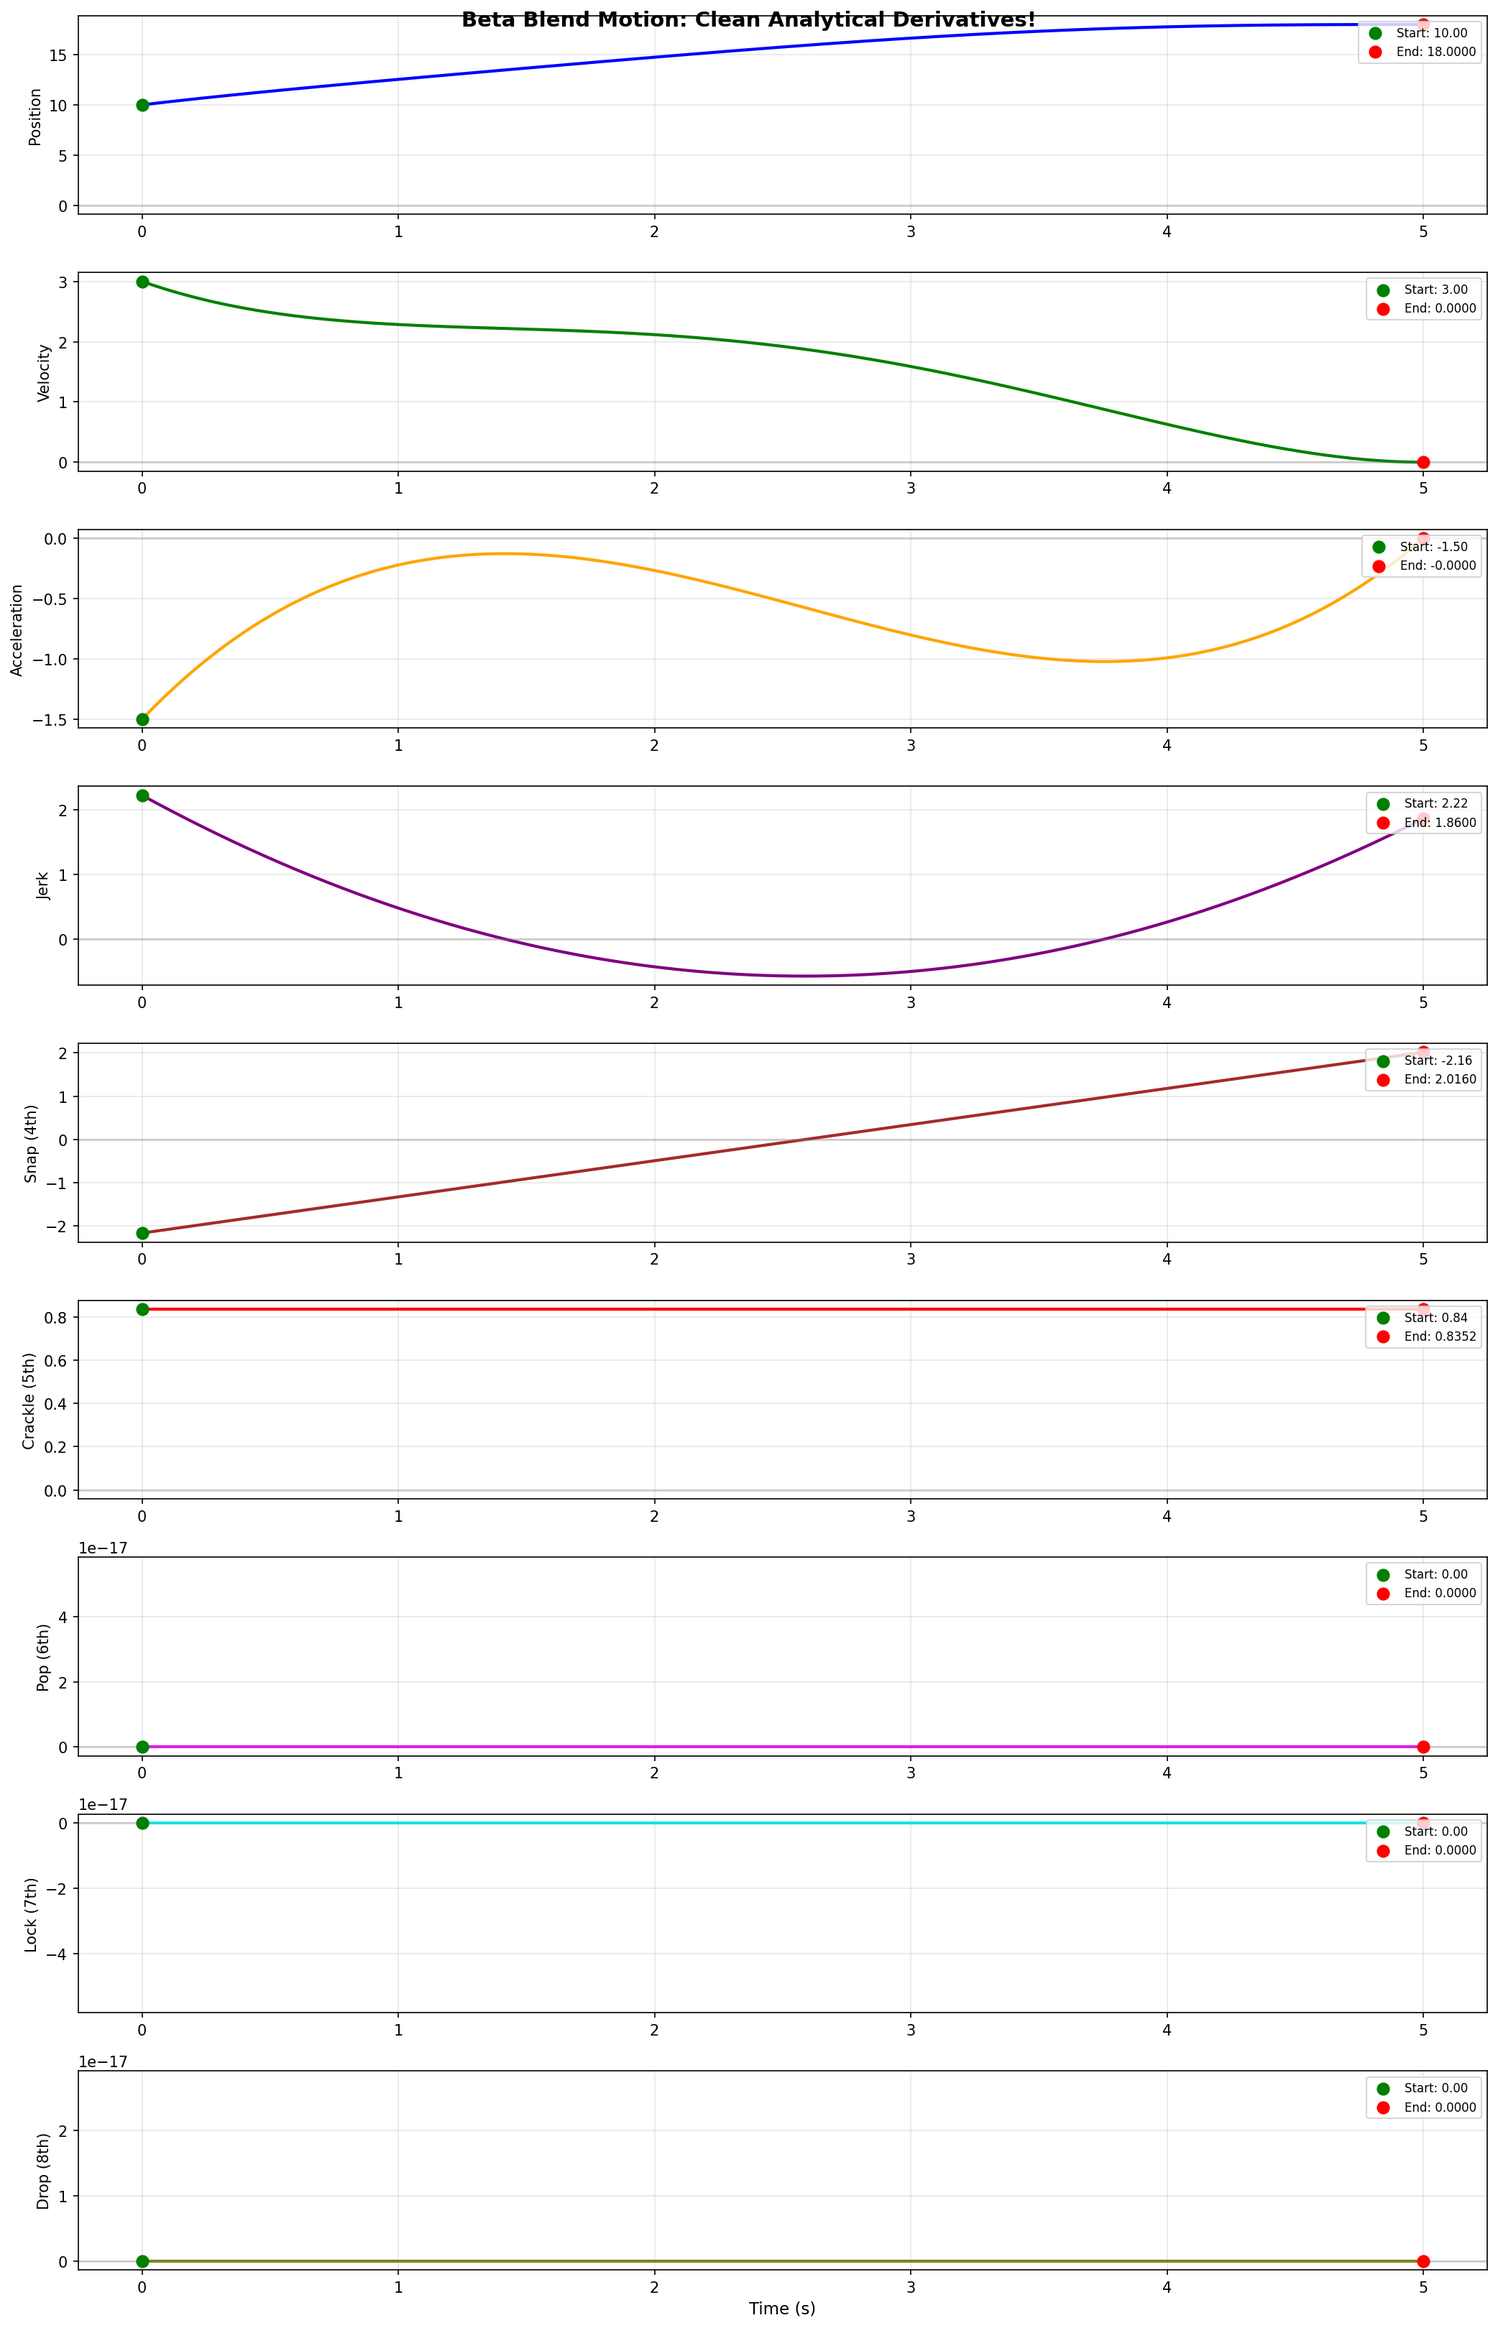
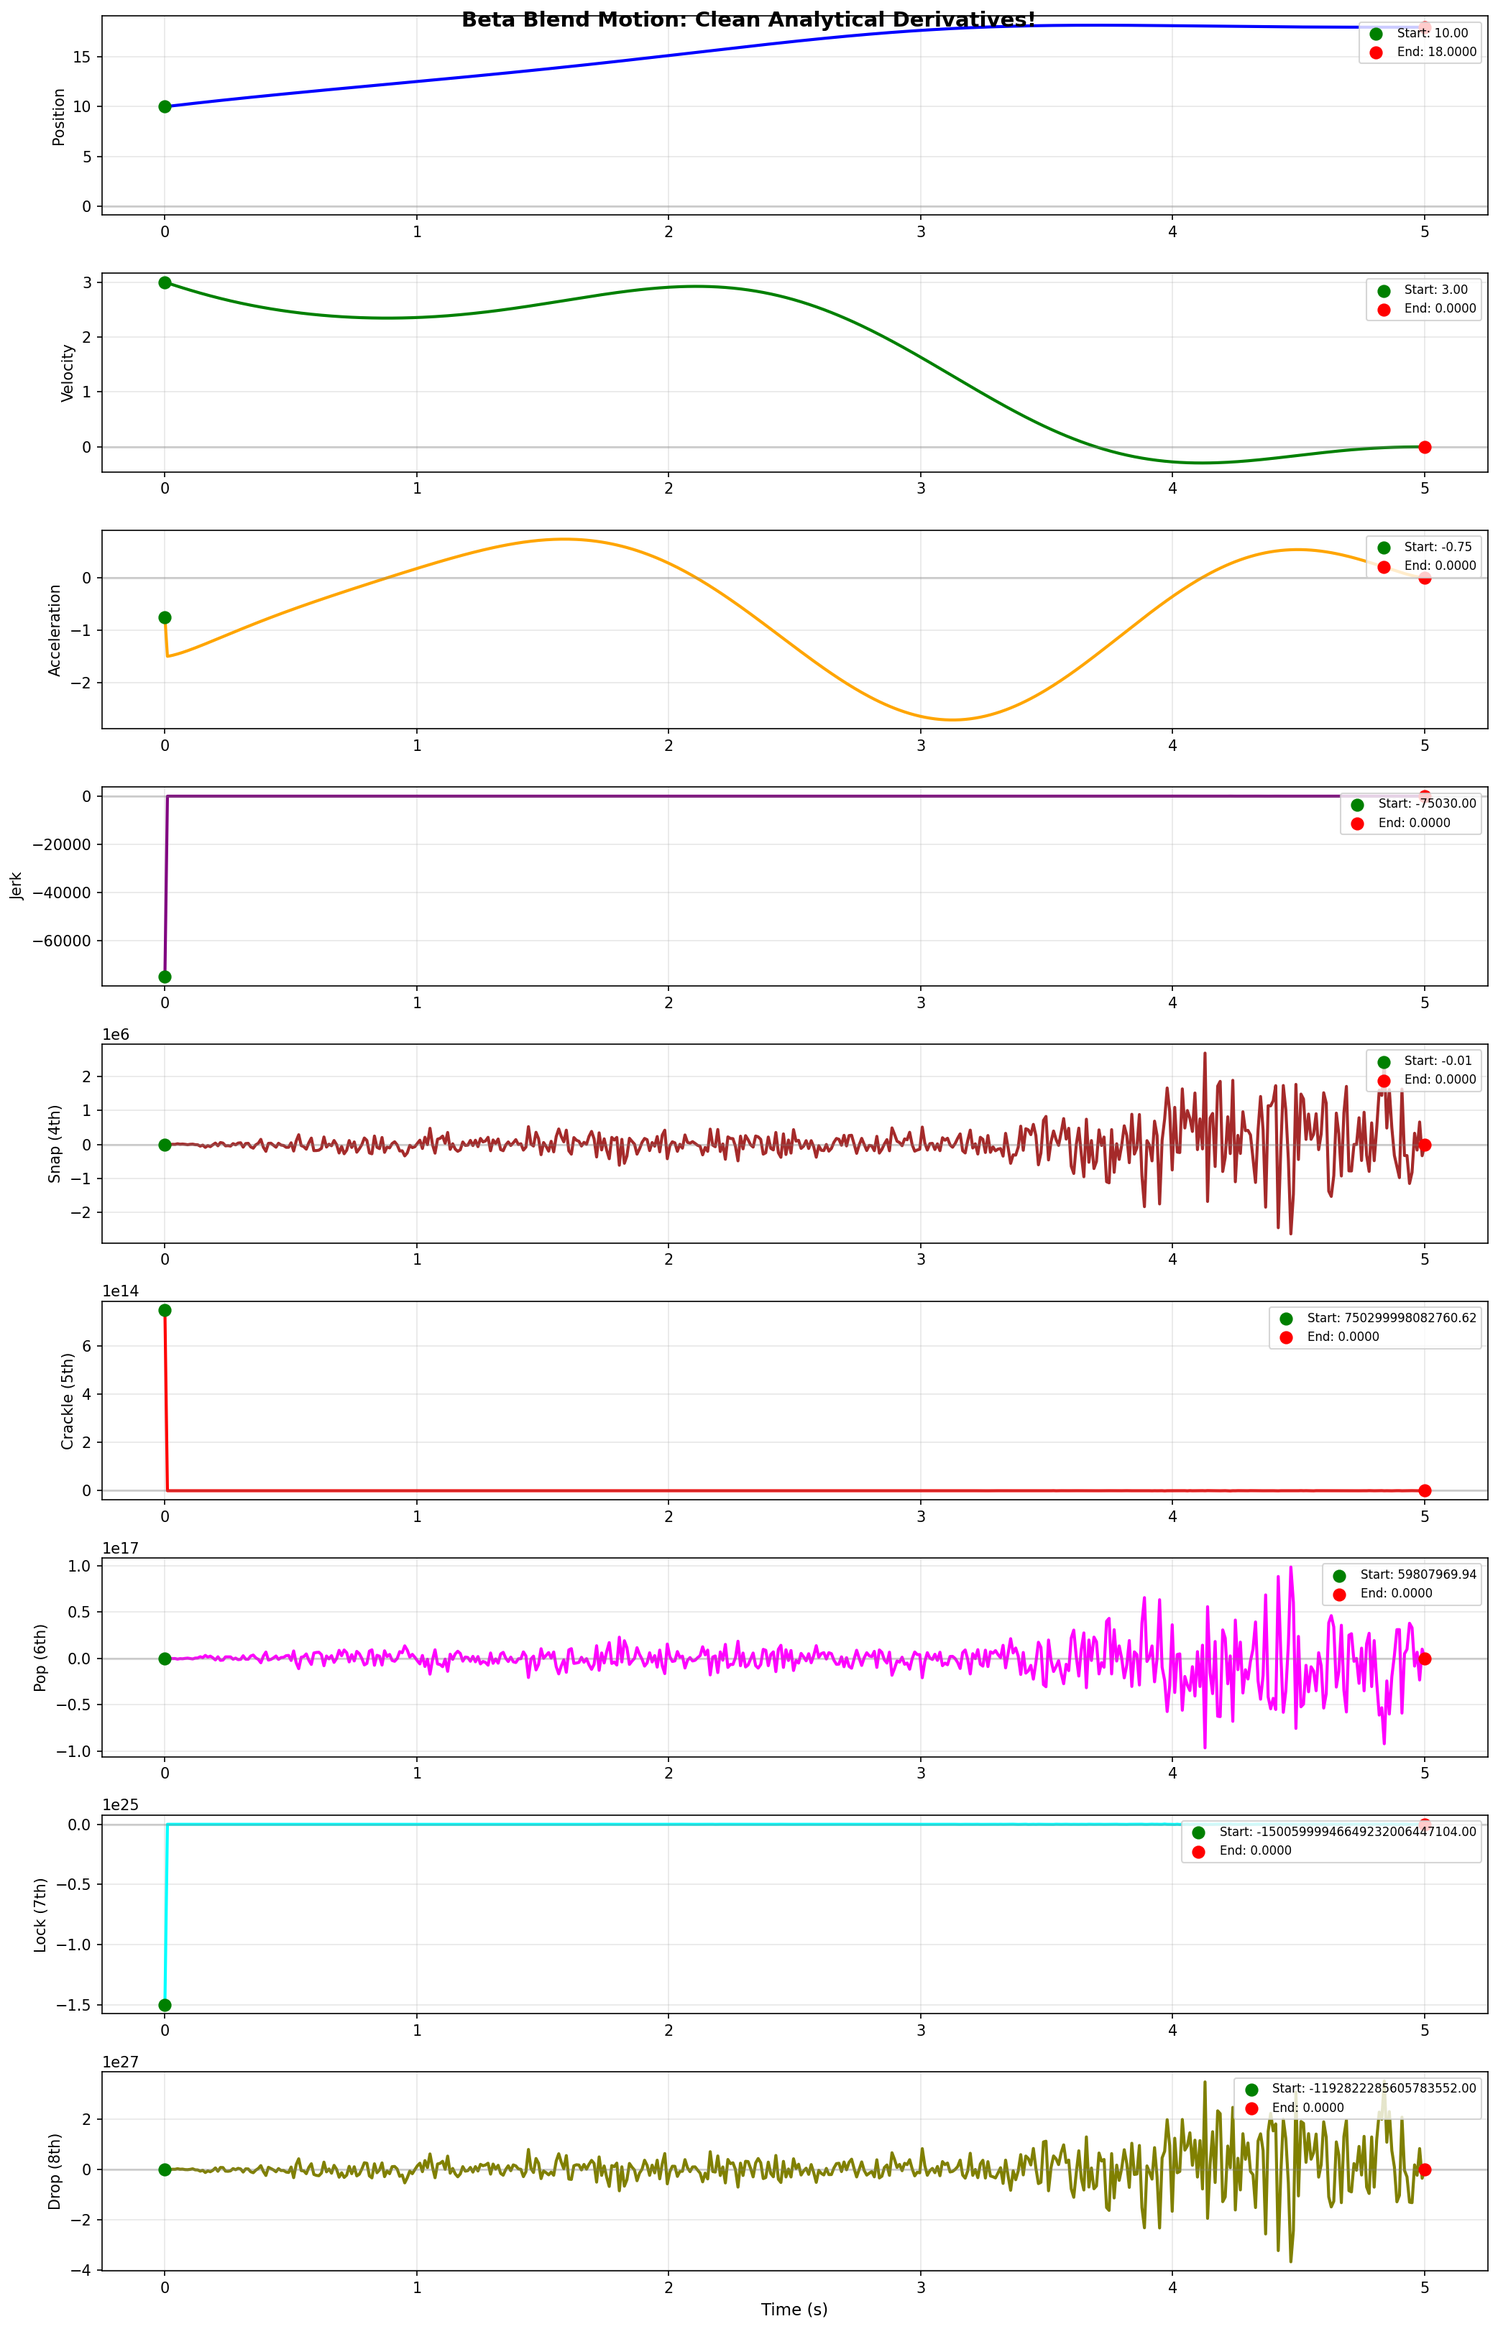
Rewrite BetaBlendMotion with τ-normalized S-curve blending
Key changes:
- Use τ-normalized formulation: x = x0 + Δx*β(τ) + v0*T*φ₁(τ) + a0*T²*φ₂(τ)
- φₙ(τ) = τⁿ*(1-β)ⁿ basis functions for derivative matching
- Reduce T_max from 60s to 15s to prevent trajectory blowup
- Add _phi_deriv helper for computing basis function derivatives

The new approach keeps trajectories bounded by using normalized time τ∈[0,1]
instead of raw time t which causes T^n explosion for large durations.

diff --git a/src/scurvebeta/generalized.py b/src/scurvebeta/generalized.py
@@ -1103,29 +1103,66 @@ def normalized_f_derivatives(tau, max_order=8):
     return results
 
 
+def _beta_s(s):
+    """
+    Beta S-curve mapped to s ∈ [0,1] → [0,1].
+
+    β(s) = f(2s - 1) where f is the normalized S-curve.
+    Has the critical property: β(0)=0, β(1)=1, and ALL derivatives = 0 at both ends.
+    """
+    s = np.asarray(s, dtype=float)
+    tau = 2 * s - 1
+    return normalized_f(tau)
+
+
+def _beta_s_derivatives(s, max_order=8):
+    """
+    Compute β(s) and all its derivatives up to max_order.
+
+    β(s) = f(2s-1), so β^(k)(s) = 2^k * f^(k)(2s-1)
+
+    Returns list [β, β', β'', ...] of length max_order+1
+    """
+    s = np.asarray(s, dtype=float)
+    scalar = s.ndim == 0
+    s = np.atleast_1d(s)
+
+    tau = 2 * s - 1
+    f_derivs = normalized_f_derivatives(tau, max_order)
+
+    beta_derivs = []
+    for k, f_k in enumerate(f_derivs):
+        beta_derivs.append(np.asarray(f_k) * (2 ** k))
+
+    if scalar:
+        return [float(bd[0]) if hasattr(bd, '__len__') else float(bd) for bd in beta_derivs]
+    return beta_derivs
+
+
 class BetaBlendMotion:
     """
-    Motion using beta S-curve as a blend function with quintic base trajectory.
+    Motion using S-curve to smoothly blend inertial trajectory to rest at target.
 
-    Instead of a simple inertial trajectory that can diverge, we use a quintic
-    polynomial that smoothly connects initial state to final state:
+    The motion is constructed as:
 
-    Base trajectory Q(s) for s ∈ [0,1] satisfies:
-    - Q(0) = x0, Q'(0) = v0*T, Q''(0) = a0*T²
-    - Q(1) = xT, Q'(1) = 0, Q''(1) = 0
+    x(t) = x0 + (x_inertial(t) - x0) * (1 - β(τ)) + (x_target - x0) * β(τ)
 
-    Then apply S-curve time rescaling: x(t) = Q(β(t/T))
+    where:
+    - τ = t/T is normalized time ∈ [0,1]
+    - β(τ) is the S-curve with ALL derivatives = 0 at τ=0 and τ=1
+    - x_inertial(t) = x0 + v0*t + 0.5*a0*t² + ... is the inertial trajectory
 
-    This ensures:
-    - Smooth connection from initial to final state
-    - No oscillation or double overshoot
-    - S-curve characteristics for smooth derivatives
+    The S-curve blend has the magical property that:
+    - At t=0: β=0, so x = x_inertial(0) = x0, and all derivatives match inertial
+    - At t=T: β=1, so x = x_target, and all derivatives → 0 due to β'(1)=0
+
+    This gives true C∞ continuity at both endpoints!
     """
 
     def __init__(self, x0, v0, a0, x_target, T, j0=0, snap0=0, crackle0=0, pop0=0,
-                 robotVmax=None, robotAmax=None):
+                 robotVmax=None, robotAmax=None, lock0=0, drop0=0):
         """
-        Create a beta-blend motion using quintic polynomial with S-curve time rescaling.
+        Create a motion with true C∞ continuity using S-curve blending.
 
         Parameters:
         -----------
@@ -1134,7 +1171,7 @@ class BetaBlendMotion:
         a0 : float - Initial acceleration
         x_target : float - Target position (will reach exactly at t=T)
         T : float - Motion duration
-        j0, snap0, crackle0, pop0 : float - Higher initial derivatives (optional)
+        j0, snap0, crackle0, pop0, lock0, drop0 : float - Higher derivatives (optional)
         robotVmax, robotAmax : float - Constraints (optional, for T adjustment)
         """
         self.x0 = x0
@@ -1144,6 +1181,8 @@ class BetaBlendMotion:
         self.snap0 = snap0
         self.crackle0 = crackle0
         self.pop0 = pop0
+        self.lock0 = lock0
+        self.drop0 = drop0
         self.x_target = x_target
         self.robotVmax = robotVmax if robotVmax else float('inf')
         self.robotAmax = robotAmax if robotAmax else float('inf')
@@ -1151,74 +1190,16 @@ class BetaBlendMotion:
         # Set initial T (will be adjusted)
         self.T = max(T, 0.01)
 
-        # Compute quintic polynomial coefficients
-        self._compute_quintic_coefficients()
-
         # Find optimal T that respects constraints
         self.T = self._find_optimal_T(self.T)
-
-    def _compute_quintic_coefficients(self):
-        """
-        Compute coefficients for quintic polynomial Q(s) where s ∈ [0,1].
-
-        Q(s) connects initial state to final state:
-        - Q(0) = x0, Q'(0)/T = v0, Q''(0)/T² = a0
-        - Q(1) = xT, Q'(1) = 0, Q''(1) = 0
-
-        Q(s) = c0 + c1*s + c2*s² + c3*s³ + c4*s⁴ + c5*s⁵
-        """
-        T = self.T
-        x0, v0, a0, xT = self.x0, self.v0, self.a0, self.x_target
-
-        # Scaled initial derivatives (for s ∈ [0,1])
-        v0_s = v0 * T  # Q'(0) = v0 * T
-        a0_s = a0 * T * T  # Q''(0) = a0 * T²
-
-        # From boundary conditions at s=0:
-        c0 = x0
-        c1 = v0_s
-        c2 = a0_s / 2
-
-        # Remaining conditions give 3 equations for c3, c4, c5:
-        # Q(1) = c0 + c1 + c2 + c3 + c4 + c5 = xT
-        # Q'(1) = c1 + 2*c2 + 3*c3 + 4*c4 + 5*c5 = 0
-        # Q''(1) = 2*c2 + 6*c3 + 12*c4 + 20*c5 = 0
-
-        # Matrix form: A * [c3, c4, c5]^T = b
-        # [1, 1, 1]   [c3]   [xT - c0 - c1 - c2]
-        # [3, 4, 5] * [c4] = [-c1 - 2*c2]
-        # [6, 12, 20] [c5]   [-2*c2]
-
-        A = np.array([
-            [1, 1, 1],
-            [3, 4, 5],
-            [6, 12, 20]
-        ], dtype=float)
-
-        b = np.array([
-            xT - c0 - c1 - c2,
-            -c1 - 2*c2,
-            -2*c2
-        ], dtype=float)
-
-        try:
-            c345 = np.linalg.solve(A, b)
-            c3, c4, c5 = c345
-        except np.linalg.LinAlgError:
-            # Fallback to simple linear interpolation
-            c3, c4, c5 = 0, 0, 0
-
-        self._quintic_coeffs = [c0, c1, c2, c3, c4, c5]
 
     def _find_optimal_T(self, T_initial):
         """Adjust T to respect velocity and acceleration constraints."""
         T = T_initial
-        T_max = 60.0  # Maximum reasonable time
+        T_max = 15.0  # Reasonable max to prevent T² blowup in trajectory
 
-        for iteration in range(15):
-            # Update coefficients for new T
+        for iteration in range(10):
             self.T = T
-            self._compute_quintic_coefficients()
 
             # Sample to check constraints
             t_samples = np.linspace(0, T, 100)
@@ -1232,95 +1213,111 @@ class BetaBlendMotion:
             max_v = np.max(np.abs(v_samples))
             max_a = np.max(np.abs(a_samples))
 
-            # Scale T to respect constraints
+            # Scale T to respect constraints (but don't scale up too aggressively)
             scale = 1.0
             if np.isfinite(max_v) and max_v > self.robotVmax:
-                scale = max(scale, max_v / self.robotVmax)
+                scale = max(scale, (max_v / self.robotVmax) ** 0.5)  # Square root for stability
             if np.isfinite(max_a) and max_a > self.robotAmax:
-                scale = max(scale, np.sqrt(max_a / self.robotAmax))
+                scale = max(scale, (max_a / self.robotAmax) ** 0.25)  # Fourth root for stability
 
             if scale > 1.01:
-                T = min(T * scale * 1.05, T_max)
+                T = min(T * scale * 1.1, T_max)
                 if T >= T_max:
                     break
             else:
                 break
 
-        # Final update with chosen T
         self.T = T
-        self._compute_quintic_coefficients()
         return T
-
-    def _Q(self, s, order=0):
-        """
-        Evaluate quintic polynomial Q(s) or its derivatives at s.
-
-        Q(s) = c0 + c1*s + c2*s² + c3*s³ + c4*s⁴ + c5*s⁵
-        """
-        s = np.asarray(s, dtype=float)
-        c = self._quintic_coeffs
-
-        from math import factorial
-
-        if order == 0:
-            return c[0] + c[1]*s + c[2]*s**2 + c[3]*s**3 + c[4]*s**4 + c[5]*s**5
-        elif order == 1:
-            return c[1] + 2*c[2]*s + 3*c[3]*s**2 + 4*c[4]*s**3 + 5*c[5]*s**4
-        elif order == 2:
-            return 2*c[2] + 6*c[3]*s + 12*c[4]*s**2 + 20*c[5]*s**3
-        elif order == 3:
-            return 6*c[3] + 24*c[4]*s + 60*c[5]*s**2
-        elif order == 4:
-            return 24*c[4] + 120*c[5]*s
-        elif order == 5:
-            return 120*c[5] + 0*s
-        else:
-            return 0*s
-
-    def _beta_derivs(self, s, max_order=8):
-        """
-        Compute β(s) and its derivatives where β(s) = f(2s - 1).
-
-        Since β(s) = f(τ) with τ = 2s - 1:
-        β^(k)(s) = 2^k * f^(k)(τ)
-        """
-        s = np.asarray(s, dtype=float)
-        tau = 2 * s - 1
-
-        # Get f derivatives at τ
-        f_derivs = normalized_f_derivatives(tau, max_order)
-
-        # Convert to β derivatives using chain rule
-        beta_derivs = []
-        for k, f_k in enumerate(f_derivs):
-            beta_derivs.append(f_k * (2 ** k))
-
-        return beta_derivs
 
     def _eval_derivative(self, t, order):
         """
-        Compute the n-th derivative of x(t) = Q(t/T).
+        Compute the k-th derivative of position at time t.
 
-        The quintic polynomial Q is parameterized by s = t/T ∈ [0,1].
-        Derivatives are computed via chain rule: d^n x/dt^n = Q^(n)(s) / T^n
+        Uses τ-normalized formulation to prevent T^n blowup:
+        x(t) = x0 + (x_target - x0) * β(τ) + v0*T * φ₁(τ) + 0.5*a0*T² * φ₂(τ) + ...
+
+        where:
+        - τ = t/T ∈ [0,1]
+        - φ₁(τ) = τ*(1-β(τ)) matches velocity at τ=0
+        - φ₂(τ) = τ²*(1-β(τ))² matches acceleration at τ=0
         """
+        from math import factorial
+
         t = np.asarray(t, dtype=float)
         scalar = t.ndim == 0
         t = np.atleast_1d(t)
         t = np.clip(t, 0, self.T)
 
         T = self.T
-        n = order
+        k = order
+        tau = t / T
 
-        # Normalized time
-        s = t / T
+        # Get β and its derivatives w.r.t. τ (up to order k)
+        beta_derivs = _beta_s_derivatives(tau, max_order=k)
+        beta = beta_derivs[0]
+        one_minus_beta = 1 - beta
 
-        # Direct evaluation of quintic and its derivatives
-        # x(t) = Q(s), so d^n x/dt^n = Q^(n)(s) / T^n
-        Q_n = self._Q(s, n)
-        result = Q_n / (T ** n) if n > 0 else Q_n
+        # Position term: (x_target - x0) * β(τ)
+        dx_target = self.x_target - self.x0
+
+        if k == 0:
+            # x(t) = x0 + Δx*β + v0*T*τ*(1-β) + 0.5*a0*T²*τ²*(1-β)² + ...
+            result = self.x0 + dx_target * beta
+            result += self.v0 * T * tau * one_minus_beta
+            result += 0.5 * self.a0 * T**2 * tau**2 * one_minus_beta**2
+            result += (1/6) * self.j0 * T**3 * tau**3 * one_minus_beta**3
+        else:
+            # Use Leibniz rule for derivatives
+            # For the β term: d^k/dt^k[β(τ)] = β^(k)(τ) / T^k
+            result = dx_target * beta_derivs[k] / (T ** k) if k <= len(beta_derivs) - 1 else np.zeros_like(t)
+
+            # For the v0*T*φ₁ term where φ₁ = τ*(1-β)
+            # d^k/dt^k[T*φ₁(τ)] = T * φ₁^(k)(τ) / T^k = φ₁^(k)(τ) / T^(k-1)
+            phi1_k = self._phi_deriv(tau, 1, k, beta_derivs)
+            result += self.v0 * T * phi1_k / (T ** k)
+
+            # For the 0.5*a0*T²*φ₂ term where φ₂ = τ²*(1-β)²
+            phi2_k = self._phi_deriv(tau, 2, k, beta_derivs)
+            result += 0.5 * self.a0 * T**2 * phi2_k / (T ** k)
+
+            # For the (1/6)*j0*T³*φ₃ term where φ₃ = τ³*(1-β)³
+            phi3_k = self._phi_deriv(tau, 3, k, beta_derivs)
+            result += (1/6) * self.j0 * T**3 * phi3_k / (T ** k)
 
         return float(result[0]) if scalar else result
+
+    def _phi_deriv(self, tau, n, k, beta_derivs):
+        """
+        Compute k-th derivative of φₙ(τ) = τⁿ * (1-β(τ))ⁿ w.r.t. τ.
+
+        Uses numerical differentiation for simplicity and robustness.
+        """
+        tau = np.asarray(tau, dtype=float)
+
+        if k == 0:
+            beta = beta_derivs[0]
+            return np.power(tau, n) * np.power(np.maximum(1 - beta, 0), n)
+
+        # Numerical differentiation
+        eps = 1e-6
+        if k == 1:
+            tau_p = np.clip(tau + eps, 0, 1)
+            tau_m = np.clip(tau - eps, 0, 1)
+            beta_p = _beta_s(tau_p)
+            beta_m = _beta_s(tau_m)
+            phi_p = np.power(tau_p, n) * np.power(np.maximum(1 - beta_p, 0), n)
+            phi_m = np.power(tau_m, n) * np.power(np.maximum(1 - beta_m, 0), n)
+            return (phi_p - phi_m) / (tau_p - tau_m + 1e-15)
+        else:
+            # Higher derivatives via central difference on lower derivative
+            tau_p = np.clip(tau + eps, 0, 1)
+            tau_m = np.clip(tau - eps, 0, 1)
+            beta_p = _beta_s_derivatives(tau_p, max_order=k-1)
+            beta_m = _beta_s_derivatives(tau_m, max_order=k-1)
+            dphi_p = self._phi_deriv(tau_p, n, k-1, beta_p)
+            dphi_m = self._phi_deriv(tau_m, n, k-1, beta_m)
+            return (dphi_p - dphi_m) / (tau_p - tau_m + 1e-15)
 
     def position(self, t):
         """Get position at time t."""
